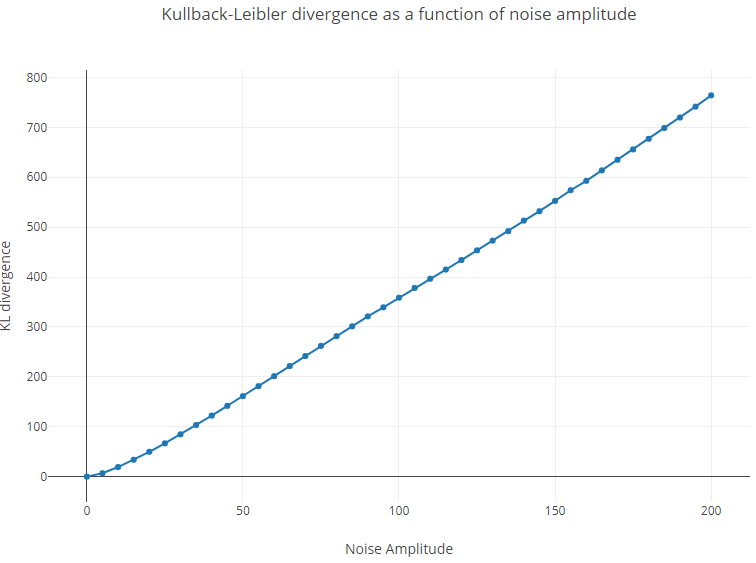
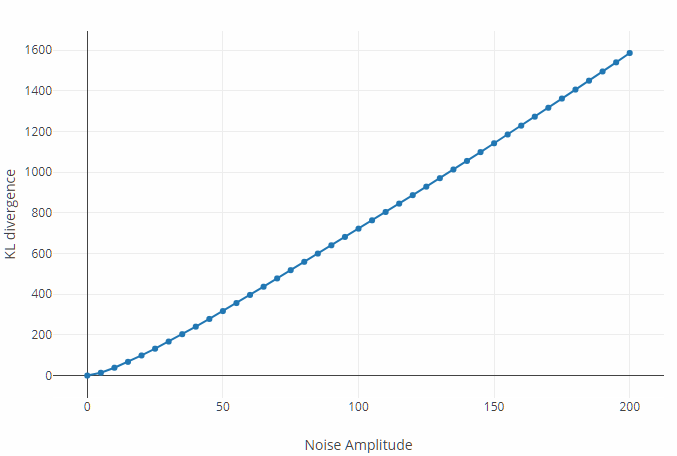
Fixed clamping

diff --git a/a1/q2.py b/a1/q2.py
@@ -4,7 +4,7 @@ import cv2
 import plotly.plotly as py
 import plotly.graph_objs as go
 
-doPlots = False
+doPlots = True
 doVerbose = True
 
 imgfolder = "images"
@@ -24,11 +24,19 @@ def imshow(imgname, img):
 def randomNoiseImg(n, m, maxval):
     return (np.random.rand(n, m) * 2 * maxval - maxval).astype(np.int)
 
+# single image
 def computeProbabilities(img):
     uniques, counts = np.unique(img, return_counts=True)
     p = counts / counts.sum()
     return p
 
+# between two images
+# returns 3 lists: ordered P(x,y) and corresponding P(x) and P(y) in order of appearance in P(x,y) (with duplicates)
+# ex:
+#     P(x,y) = [P(122,15), P(76, 15)]
+#     P(x)   = [P(122)   , P(76)    ]
+#     P(y)   = [P(15)    , P(15)    ]
+# this format allows for vectorized computation later
 def computeProbabilities2(img1, img2):
     img12 = np.zeros((2,) + img1.shape[:2], np.int)
     img12[0] = img1
@@ -77,16 +85,20 @@ def computeMse(img1, img2):
     dif = img1 - img2
     return (dif * dif).sum()
 
-def q2a(verbose=doVerbose):
-    img = readGrayImg(imgfolder, imgname001)
+def combineImgs(img1, img2, clamp=False):
+    imgCombined = img1 + img2
+    return np.clip(imgCombined, 0, 255) if clamp else imgCombined
+
+def q2a(verbose=doVerbose, imgname=imgname000):
+    img = readGrayImg(imgfolder, imgname)
 
     entropy = computeImgEntropy(img)
 
     if verbose:
-        print("a) The entropy of the image {} is [{}].".format(imgname001, entropy))
+        print("a) The entropy of the image {} is [{}].".format(imgname, entropy))
 
-def q2b(verbose=doVerbose):
-    img = readGrayImg(imgfolder, imgname001)
+def q2b(verbose=doVerbose, imgname=imgname000):
+    img = readGrayImg(imgfolder, imgname)
 
     noiseAmplitude = 20
     img = randomNoiseImg(img.shape[0], img.shape[1], noiseAmplitude)
@@ -95,14 +107,14 @@ def q2b(verbose=doVerbose):
     if verbose:
         print("b) The entropy of a random noise image with noise amplitude {} is [{}].".format(noiseAmplitude, entropy))
 
-def q2c(noiseAmplitude=20, verbose=doVerbose):
-    img = readGrayImg(imgfolder, imgname001)
+def q2c(noiseAmplitude=20, verbose=doVerbose, imgname=imgname000):
+    img = readGrayImg(imgfolder, imgname)
     entropy = computeImgEntropy(img)
 
     imgNoise = randomNoiseImg(img.shape[0], img.shape[1], noiseAmplitude)
     entropyNoisy = computeImgEntropy(imgNoise)
 
-    imgCombined = np.clip(img + imgNoise, 0, 255)
+    imgCombined = combineImgs(img, imgNoise)
     entropyCombined = computeImgEntropy(imgCombined)
 
     if verbose:
@@ -183,7 +195,7 @@ def q22c(noiseAmplitude = 20, verbose=doVerbose):
     imgNoise1 = randomNoiseImg(img.shape[0], img.shape[1], noiseAmplitude)
     imgNoise2 = randomNoiseImg(img.shape[0], img.shape[1], noiseAmplitude)
 
-    imgCombined = np.clip(img + imgNoise1, 0, 255)
+    imgCombined = combineImgs(img, imgNoise1)
 
     kl_n2n = computeKullbackLeiblerDivergence(imgNoise1, imgNoise2)
 
@@ -200,7 +212,7 @@ def q22c(noiseAmplitude = 20, verbose=doVerbose):
 
     return {"a": noiseAmplitude, "mi": mi_i2ni, "kl": kl_i2ni}
 
-def q22de(plot=True):
+def q22de(plot=doPlots):
     print("d) plotting...")
 
     a = []
@@ -291,6 +303,7 @@ def q23(verbose=doVerbose, imgname1=imgname000, imgname2=imgname001):
 
 def q22showshift(verbose=doVerbose):
     """
+    results from running the searches
     a) best mse [0]: xy [(15, 12)]
        best mi  [3.221302964559462]: xy [(15, 12)]
     b) best mse [185532018]: xy [(9, -8)]
@@ -327,23 +340,23 @@ def q22showshift(verbose=doVerbose):
 
 
 def main():
-    # print("\n2.1: Entropy")
-    # q2a()
-    # q2b()
-    # q2c()
-    # q2d()
+    print("\n2.1: Entropy")
+    q2a()
+    q2b()
+    q2c()
+    q2d()
 
-    # print("\n2.2 MI and KL divergence")
-    # q22ab()
-    # q22c()
-    # q22de()
+    print("\n2.2 MI and KL divergence")
+    q22ab()
+    q22c()
+    q22de()
 
     # print("\n2.3 Simple Image Registration")
     # q23(imgname1=imgname000, imgname2=imgname001)
     # q23(imgname1=imgname002, imgname2=imgname003)
     # q23(imgname1=imgname004, imgname2=imgname005)
 
-    q22showshift()
+    # q22showshift()
 
 if __name__=="__main__":
     main()
